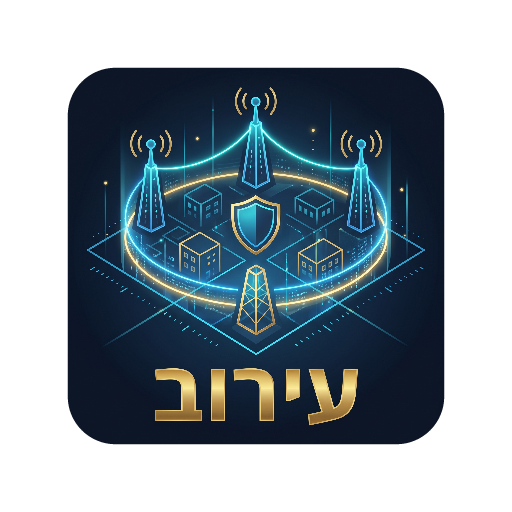
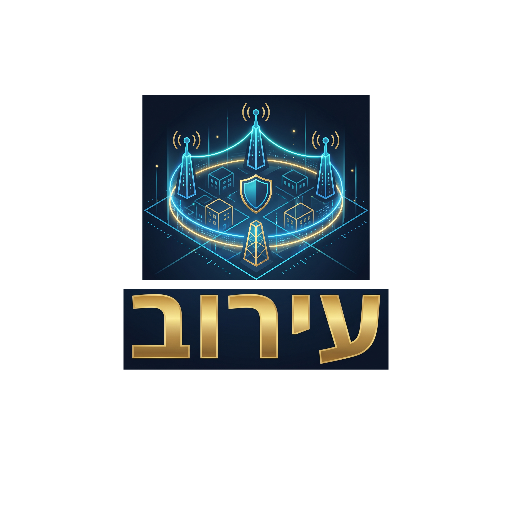
אפליקציה: מיקום המשתמש על המפה, אייקון קריא יותר ותיקון רשימת הערים
- נקודה כחולה במיקום הטלפון על מפת העיר, וכפתור "המיקום שלי" (expo-location,
  הרשאה בזמן שימוש בלבד, ורק כשלשונית העיר פתוחה)
- האייקון: המילה "עירוב" גדולה יותר ונכנסת כולה לעיגול של אנדרואיד
- רשימת הערים ביומן ובמסך העיר: שורה שנשברת לשורה הבאה במקום גלילה אופקית,
  שבכיוון ימין לשמאל באנדרואיד נפתחה מחוץ למסך

diff --git a/Eruv/app/src/components/mapHtml.generated.ts b/Eruv/app/src/components/mapHtml.generated.ts
@@ -1,2 +1,2 @@
 // GENERATED by scripts/build-map-html.js from assets/leaflet/map.html. Do not edit.
-export const MAP_HTML = "<!doctype html>\n<!--\n  Eruv ring map (R15, R17; KTD4). Loaded by src/components/EruvMap.tsx inside\n  react-native-webview. After editing, run `npm run build:map` to regenerate\n  src/components/mapHtml.generated.ts (a test fails while they differ).\n\n  Leaflet 1.9.4 comes from unpkg with Subresource Integrity; the base map needs the\n  network for OpenStreetMap tiles anyway. The WebView loads this page under the API\n  origin, so tile requests carry a Referer, and adds an app name to the User-Agent\n  (OpenStreetMap tile usage policy).\n\n  Bridge: the app calls window.eruvReceive(message) (also accepted as a\n  window/document \"message\" event). Message:\n    { \"type\": \"render\", \"poles\": [{number, lat, lon}], \"view\": \"break\" | \"ring\",\n      \"breakPoint\": null | { \"lat\", \"lon\", \"poles\": [bounding pole numbers] } }\n  The page posts {\"type\": \"ready\"} to the app when it can receive.\n-->\n<html>\n  <head>\n    <meta charset=\"utf-8\" />\n    <meta name=\"viewport\" content=\"width=device-width, initial-scale=1, maximum-scale=1, user-scalable=no\" />\n    <link\n      rel=\"stylesheet\"\n      href=\"https://unpkg.com/leaflet@1.9.4/dist/leaflet.css\"\n      integrity=\"sha256-p4NxAoJBhIIN+hmNHrzRCf9tD/miZyoHS5obTRR9BMY=\"\n      crossorigin=\"\"\n    />\n    <script\n      src=\"https://unpkg.com/leaflet@1.9.4/dist/leaflet.js\"\n      integrity=\"sha256-20nQCchB9co0qIjJZRGuk2/Z9VM+kNiyxNV1lvTlZBo=\"\n      crossorigin=\"\"\n    ></script>\n    <style>\n      /* Palette from the app icon (src/components/ui.tsx). */\n      html, body, #map { height: 100%; margin: 0; padding: 0; background: #0C182A; }\n      /* Night rendering of the standard OpenStreetMap tiles (same tiles, restyled). */\n      .leaflet-tile-pane {\n        filter: invert(1) hue-rotate(200deg) brightness(0.78) contrast(0.92) saturate(0.45);\n      }\n      .leaflet-container { background: #0C182A; font: 13px/1.3 -apple-system, Roboto, sans-serif; }\n      .leaflet-bar { border: 1px solid #2A4064 !important; border-radius: 10px !important; overflow: hidden; }\n      .leaflet-bar a, .leaflet-bar a:hover {\n        background: #13243C; color: #EDF3FA; border-bottom-color: #2A4064; width: 34px; height: 34px; line-height: 34px;\n      }\n      .leaflet-control-attribution { background: rgba(12, 24, 42, 0.75) !important; color: #93A6BF; }\n      .leaflet-control-attribution a { color: #3FD8FF; }\n      .pole-label {\n        font: 700 11px/1 -apple-system, Roboto, sans-serif;\n        color: #E6B850;\n        background: rgba(12, 24, 42, 0.88);\n        border: 1px solid rgba(230, 184, 80, 0.45);\n        border-radius: 6px;\n        padding: 3px 5px;\n        white-space: nowrap;\n      }\n      .pole-label.strong { color: #fff; background: #FF5D5D; border-color: #fff; font-size: 13px; }\n      .break-mark { background: none; border: none; }\n      .break-mark .pulse {\n        position: absolute; left: 0; top: 0; width: 44px; height: 44px; border-radius: 50%;\n        border: 3px solid #FF5D5D; box-sizing: border-box; animation: pulse 1.8s ease-out infinite;\n      }\n      .break-mark .core {\n        position: absolute; left: 13px; top: 13px; width: 18px; height: 18px; border-radius: 50%;\n        background: #FF5D5D; border: 3px solid #fff; box-sizing: border-box;\n      }\n      @keyframes pulse { from { transform: scale(0.45); opacity: 1; } to { transform: scale(1.35); opacity: 0; } }\n      @media (prefers-reduced-motion: reduce) { .break-mark .pulse { animation: none; opacity: 0.6; } }\n    </style>\n  </head>\n  <body>\n    <div id=\"map\"></div>\n    <script>\n      (function () {\n        var LABEL_MIN_PX = 24; // two labels closer than this would overlap\n        var BREAK_ZOOM = 17;\n        var FIBER = '#3FD8FF';\n        var GOLD = '#E6B850';\n        var NIGHT = '#0C182A';\n        var RED = '#FF5D5D';\n\n        function post(message) {\n          if (window.ReactNativeWebView) window.ReactNativeWebView.postMessage(JSON.stringify(message));\n        }\n\n        var map = L.map('map', { zoomControl: true });\n        L.tileLayer('https://tile.openstreetmap.org/{z}/{x}/{y}.png', {\n          maxZoom: 19,\n          attribution: '&copy; <a href=\"https://www.openstreetmap.org/copyright\">OpenStreetMap</a> contributors',\n        }).addTo(map);\n        map.setView([31.5, 34.9], 8);\n\n        var shapes = L.layerGroup().addTo(map);\n        var labels = L.layerGroup().addTo(map);\n        var current = null;\n\n        function highlighted(number) {\n          return !!(current && current.breakPoint && current.breakPoint.poles.indexOf(number) >= 0);\n        }\n\n        function label(pole, strong) {\n          return L.marker([pole.lat, pole.lon], {\n            interactive: false,\n            keyboard: false,\n            icon: L.divIcon({\n              className: 'pole-label' + (strong ? ' strong' : ''),\n              html: String(pole.number),\n              iconSize: null,\n              iconAnchor: [-6, 20],\n            }),\n          });\n        }\n\n        // Label as many poles as fit without overlapping at this zoom. The\n        // bounding poles of a break are always labelled.\n        function relabel() {\n          labels.clearLayers();\n          if (!current) return;\n          var placed = [];\n          var poles = current.poles;\n          var ordered = poles.filter(function (p) { return highlighted(p.number); })\n            .concat(poles.filter(function (p) { return !highlighted(p.number); }));\n          ordered.forEach(function (pole) {\n            var strong = highlighted(pole.number);\n            var point = map.latLngToLayerPoint([pole.lat, pole.lon]);\n            if (!strong) {\n              for (var i = 0; i < placed.length; i++) {\n                if (placed[i].distanceTo(point) < LABEL_MIN_PX) return;\n              }\n            }\n            placed.push(point);\n            label(pole, strong).addTo(labels);\n          });\n        }\n\n        function fit() {\n          var bp = current.breakPoint;\n          var points = current.poles.map(function (p) { return [p.lat, p.lon]; });\n          if (bp && current.view === 'break') map.setView([bp.lat, bp.lon], BREAK_ZOOM);\n          else if (points.length) map.fitBounds(L.latLngBounds(points), { padding: [24, 24] });\n        }\n\n        function render(message) {\n          current = message;\n          shapes.clearLayers();\n          var bp = message.breakPoint;\n          var points = message.poles.map(function (p) { return [p.lat, p.lon]; });\n          if (points.length >= 2) {\n            // Closed ring in pole-number order (the server sends poles ordered).\n            // The lit fiber: a soft glow under a bright line, as in the app icon.\n            L.polygon(points, { color: FIBER, weight: 12, opacity: 0.18, fill: false, interactive: false }).addTo(shapes);\n            L.polygon(points, { color: FIBER, weight: 3, fillColor: FIBER, fillOpacity: 0.06, interactive: false }).addTo(shapes);\n          }\n          if (bp && bp.poles.length === 2) {\n            var ends = message.poles.filter(function (p) { return highlighted(p.number); });\n            if (ends.length === 2) {\n              var span = ends.map(function (p) { return [p.lat, p.lon]; });\n              L.polyline(span, { color: RED, weight: 14, opacity: 0.3, interactive: false }).addTo(shapes);\n              L.polyline(span, { color: RED, weight: 5, interactive: false }).addTo(shapes);\n            }\n          }\n          message.poles.forEach(function (pole) {\n            var hot = highlighted(pole.number);\n            L.circleMarker([pole.lat, pole.lon], {\n              radius: hot ? 8 : 4.5,\n              color: hot ? '#ffffff' : NIGHT,\n              weight: 2,\n              fillColor: hot ? RED : GOLD,\n              fillOpacity: 1,\n              interactive: false,\n            }).addTo(shapes);\n          });\n          if (bp) {\n            L.marker([bp.lat, bp.lon], {\n              interactive: false,\n              keyboard: false,\n              zIndexOffset: 1000,\n              icon: L.divIcon({\n                className: 'break-mark',\n                iconSize: [44, 44],\n                iconAnchor: [22, 22],\n                html: '<div class=\"pulse\"></div><div class=\"core\"></div>',\n              }),\n            }).addTo(shapes);\n          }\n          fit();\n          relabel();\n        }\n\n        map.on('zoomend', relabel);\n\n        window.eruvReceive = function (message) {\n          if (typeof message === 'string') message = JSON.parse(message);\n          if (message && message.type === 'render') render(message);\n        };\n        function onMessage(event) {\n          try {\n            window.eruvReceive(event.data);\n          } catch (e) {}\n        }\n        window.addEventListener('message', onMessage);\n        document.addEventListener('message', onMessage);\n\n        post({ type: 'ready' });\n      })();\n    </script>\n  </body>\n</html>\n";
+export const MAP_HTML = "<!doctype html>\n<!--\n  Eruv ring map (R15, R17; KTD4). Loaded by src/components/EruvMap.tsx inside\n  react-native-webview. After editing, run `npm run build:map` to regenerate\n  src/components/mapHtml.generated.ts (a test fails while they differ).\n\n  Leaflet 1.9.4 comes from unpkg with Subresource Integrity; the base map needs the\n  network for OpenStreetMap tiles anyway. The WebView loads this page under the API\n  origin, so tile requests carry a Referer, and adds an app name to the User-Agent\n  (OpenStreetMap tile usage policy).\n\n  Bridge: the app calls window.eruvReceive(message) (also accepted as a\n  window/document \"message\" event). Message:\n    { \"type\": \"render\", \"poles\": [{number, lat, lon}], \"view\": \"break\" | \"ring\",\n      \"breakPoint\": null | { \"lat\", \"lon\", \"poles\": [bounding pole numbers] } }\n  Also { \"type\": \"me\", \"me\": null | { \"lat\", \"lon\", \"accuracy\" } } (the phone's\n  position, a blue dot) and { \"type\": \"center-me\" } (centre the map on it).\n  The page posts {\"type\": \"ready\"} to the app when it can receive.\n-->\n<html>\n  <head>\n    <meta charset=\"utf-8\" />\n    <meta name=\"viewport\" content=\"width=device-width, initial-scale=1, maximum-scale=1, user-scalable=no\" />\n    <link\n      rel=\"stylesheet\"\n      href=\"https://unpkg.com/leaflet@1.9.4/dist/leaflet.css\"\n      integrity=\"sha256-p4NxAoJBhIIN+hmNHrzRCf9tD/miZyoHS5obTRR9BMY=\"\n      crossorigin=\"\"\n    />\n    <script\n      src=\"https://unpkg.com/leaflet@1.9.4/dist/leaflet.js\"\n      integrity=\"sha256-20nQCchB9co0qIjJZRGuk2/Z9VM+kNiyxNV1lvTlZBo=\"\n      crossorigin=\"\"\n    ></script>\n    <style>\n      /* Palette from the app icon (src/components/ui.tsx). */\n      html, body, #map { height: 100%; margin: 0; padding: 0; background: #0C182A; }\n      /* Night rendering of the standard OpenStreetMap tiles (same tiles, restyled). */\n      .leaflet-tile-pane {\n        filter: invert(1) hue-rotate(200deg) brightness(0.78) contrast(0.92) saturate(0.45);\n      }\n      .leaflet-container { background: #0C182A; font: 13px/1.3 -apple-system, Roboto, sans-serif; }\n      .leaflet-bar { border: 1px solid #2A4064 !important; border-radius: 10px !important; overflow: hidden; }\n      .leaflet-bar a, .leaflet-bar a:hover {\n        background: #13243C; color: #EDF3FA; border-bottom-color: #2A4064; width: 34px; height: 34px; line-height: 34px;\n      }\n      .leaflet-control-attribution { background: rgba(12, 24, 42, 0.75) !important; color: #93A6BF; }\n      .leaflet-control-attribution a { color: #3FD8FF; }\n      .pole-label {\n        font: 700 11px/1 -apple-system, Roboto, sans-serif;\n        color: #E6B850;\n        background: rgba(12, 24, 42, 0.88);\n        border: 1px solid rgba(230, 184, 80, 0.45);\n        border-radius: 6px;\n        padding: 3px 5px;\n        white-space: nowrap;\n      }\n      .pole-label.strong { color: #fff; background: #FF5D5D; border-color: #fff; font-size: 13px; }\n      .break-mark { background: none; border: none; }\n      .break-mark .pulse {\n        position: absolute; left: 0; top: 0; width: 44px; height: 44px; border-radius: 50%;\n        border: 3px solid #FF5D5D; box-sizing: border-box; animation: pulse 1.8s ease-out infinite;\n      }\n      .break-mark .core {\n        position: absolute; left: 13px; top: 13px; width: 18px; height: 18px; border-radius: 50%;\n        background: #FF5D5D; border: 3px solid #fff; box-sizing: border-box;\n      }\n      .me-dot {\n        width: 18px; height: 18px; border-radius: 50%; box-sizing: border-box;\n        background: #4C8DFF; border: 3px solid #fff; box-shadow: 0 0 0 4px rgba(76, 141, 255, 0.35);\n      }\n      @keyframes pulse { from { transform: scale(0.45); opacity: 1; } to { transform: scale(1.35); opacity: 0; } }\n      @media (prefers-reduced-motion: reduce) { .break-mark .pulse { animation: none; opacity: 0.6; } }\n    </style>\n  </head>\n  <body>\n    <div id=\"map\"></div>\n    <script>\n      (function () {\n        var LABEL_MIN_PX = 24; // two labels closer than this would overlap\n        var BREAK_ZOOM = 17;\n        var FIBER = '#3FD8FF';\n        var GOLD = '#E6B850';\n        var NIGHT = '#0C182A';\n        var RED = '#FF5D5D';\n\n        function post(message) {\n          if (window.ReactNativeWebView) window.ReactNativeWebView.postMessage(JSON.stringify(message));\n        }\n\n        var map = L.map('map', { zoomControl: true });\n        L.tileLayer('https://tile.openstreetmap.org/{z}/{x}/{y}.png', {\n          maxZoom: 19,\n          attribution: '&copy; <a href=\"https://www.openstreetmap.org/copyright\">OpenStreetMap</a> contributors',\n        }).addTo(map);\n        map.setView([31.5, 34.9], 8);\n\n        var shapes = L.layerGroup().addTo(map);\n        var labels = L.layerGroup().addTo(map);\n        var current = null;\n\n        function highlighted(number) {\n          return !!(current && current.breakPoint && current.breakPoint.poles.indexOf(number) >= 0);\n        }\n\n        function label(pole, strong) {\n          return L.marker([pole.lat, pole.lon], {\n            interactive: false,\n            keyboard: false,\n            icon: L.divIcon({\n              className: 'pole-label' + (strong ? ' strong' : ''),\n              html: String(pole.number),\n              iconSize: null,\n              iconAnchor: [-6, 20],\n            }),\n          });\n        }\n\n        // Label as many poles as fit without overlapping at this zoom. The\n        // bounding poles of a break are always labelled.\n        function relabel() {\n          labels.clearLayers();\n          if (!current) return;\n          var placed = [];\n          var poles = current.poles;\n          var ordered = poles.filter(function (p) { return highlighted(p.number); })\n            .concat(poles.filter(function (p) { return !highlighted(p.number); }));\n          ordered.forEach(function (pole) {\n            var strong = highlighted(pole.number);\n            var point = map.latLngToLayerPoint([pole.lat, pole.lon]);\n            if (!strong) {\n              for (var i = 0; i < placed.length; i++) {\n                if (placed[i].distanceTo(point) < LABEL_MIN_PX) return;\n              }\n            }\n            placed.push(point);\n            label(pole, strong).addTo(labels);\n          });\n        }\n\n        function fit() {\n          var bp = current.breakPoint;\n          var points = current.poles.map(function (p) { return [p.lat, p.lon]; });\n          if (bp && current.view === 'break') map.setView([bp.lat, bp.lon], BREAK_ZOOM);\n          else if (points.length) map.fitBounds(L.latLngBounds(points), { padding: [24, 24] });\n        }\n\n        function render(message) {\n          current = message;\n          shapes.clearLayers();\n          var bp = message.breakPoint;\n          var points = message.poles.map(function (p) { return [p.lat, p.lon]; });\n          if (points.length >= 2) {\n            // Closed ring in pole-number order (the server sends poles ordered).\n            // The lit fiber: a soft glow under a bright line, as in the app icon.\n            L.polygon(points, { color: FIBER, weight: 12, opacity: 0.18, fill: false, interactive: false }).addTo(shapes);\n            L.polygon(points, { color: FIBER, weight: 3, fillColor: FIBER, fillOpacity: 0.06, interactive: false }).addTo(shapes);\n          }\n          if (bp && bp.poles.length === 2) {\n            var ends = message.poles.filter(function (p) { return highlighted(p.number); });\n            if (ends.length === 2) {\n              var span = ends.map(function (p) { return [p.lat, p.lon]; });\n              L.polyline(span, { color: RED, weight: 14, opacity: 0.3, interactive: false }).addTo(shapes);\n              L.polyline(span, { color: RED, weight: 5, interactive: false }).addTo(shapes);\n            }\n          }\n          message.poles.forEach(function (pole) {\n            var hot = highlighted(pole.number);\n            L.circleMarker([pole.lat, pole.lon], {\n              radius: hot ? 8 : 4.5,\n              color: hot ? '#ffffff' : NIGHT,\n              weight: 2,\n              fillColor: hot ? RED : GOLD,\n              fillOpacity: 1,\n              interactive: false,\n            }).addTo(shapes);\n          });\n          if (bp) {\n            L.marker([bp.lat, bp.lon], {\n              interactive: false,\n              keyboard: false,\n              zIndexOffset: 1000,\n              icon: L.divIcon({\n                className: 'break-mark',\n                iconSize: [44, 44],\n                iconAnchor: [22, 22],\n                html: '<div class=\"pulse\"></div><div class=\"core\"></div>',\n              }),\n            }).addTo(shapes);\n          }\n          fit();\n          relabel();\n        }\n\n        // The phone's own position: a blue dot over the ring, with its accuracy circle.\n        var meLayer = L.layerGroup().addTo(map);\n        var me = null;\n        function showMe(position) {\n          me = position;\n          meLayer.clearLayers();\n          if (!me) return;\n          if (me.accuracy) {\n            L.circle([me.lat, me.lon], {\n              radius: me.accuracy, color: '#4C8DFF', weight: 1, opacity: 0.6,\n              fillColor: '#4C8DFF', fillOpacity: 0.12, interactive: false,\n            }).addTo(meLayer);\n          }\n          L.marker([me.lat, me.lon], {\n            interactive: false, keyboard: false, zIndexOffset: 2000,\n            icon: L.divIcon({ className: '', html: '<div class=\"me-dot\"></div>', iconSize: [18, 18], iconAnchor: [9, 9] }),\n          }).addTo(meLayer);\n        }\n\n        map.on('zoomend', relabel);\n\n        window.eruvReceive = function (message) {\n          if (typeof message === 'string') message = JSON.parse(message);\n          if (!message) return;\n          if (message.type === 'render') render(message);\n          else if (message.type === 'me') showMe(message.me);\n          else if (message.type === 'center-me' && me) map.setView([me.lat, me.lon], Math.max(map.getZoom(), 17));\n        };\n        function onMessage(event) {\n          try {\n            window.eruvReceive(event.data);\n          } catch (e) {}\n        }\n        window.addEventListener('message', onMessage);\n        document.addEventListener('message', onMessage);\n\n        post({ type: 'ready' });\n      })();\n    </script>\n  </body>\n</html>\n";

diff --git a/Eruv/app/src/components/EruvMap.tsx b/Eruv/app/src/components/EruvMap.tsx
@@ -2,12 +2,14 @@
 // message bridge. Reusable for any pole list (e.g. an admin pole-import preview):
 // pass `breakPoint={null}` to just draw the ring.
 import { useCallback, useEffect, useMemo, useRef, useState } from 'react';
+import { Ionicons } from '@expo/vector-icons';
 import { Linking, Pressable, StyleSheet, Text, View } from 'react-native';
 import { WebView, type WebViewMessageEvent } from 'react-native-webview';
 
 import type { Pole } from '../api/client';
 import { apiOrigin } from '../config';
 import { he } from '../i18n/he';
+import type { MyLocation } from '../lib/useMyLocation';
 import { MAP_HTML } from './mapHtml.generated';
 import { colors } from './ui';
 
@@ -26,6 +28,8 @@ export type MapView = 'break' | 'ring';
 export interface EruvMapProps {
   poles: Pole[];
   breakPoint?: MapBreakPoint | null;
+  /** The phone's own position, drawn as a blue dot (City tab only). */
+  me?: MyLocation | null;
   testID?: string;
 }
 
@@ -34,7 +38,12 @@ export function mapMessage(poles: Pole[], breakPoint: MapBreakPoint | null, view
   return JSON.stringify({ type: 'render', poles, breakPoint, view: breakPoint ? view : 'ring' });
 }
 
-export function EruvMap({ poles, breakPoint = null, testID = 'eruv-map' }: EruvMapProps) {
+/** The bridge message with the phone's position (a separate message, so `render` stays unchanged). */
+export function meMessage(me: MyLocation | null): string {
+  return JSON.stringify({ type: 'me', me });
+}
+
+export function EruvMap({ poles, breakPoint = null, me = null, testID = 'eruv-map' }: EruvMapProps) {
   const webView = useRef<WebView>(null);
   // Bumped on every "ready" from the page, so a reloaded page gets the data again.
   const [readyCount, setReadyCount] = useState(0);
@@ -50,6 +59,16 @@ export function EruvMap({ poles, breakPoint = null, testID = 'eruv-map' }: EruvM
     if (readyCount === 0) return;
     webView.current?.injectJavaScript(`window.eruvReceive(${JSON.stringify(message)}); true;`);
   }, [message, readyCount]);
+
+  const send = useCallback((json: string) => {
+    webView.current?.injectJavaScript(`window.eruvReceive(${JSON.stringify(json)}); true;`);
+  }, []);
+
+  const meJson = useMemo(() => meMessage(me), [me]);
+  useEffect(() => {
+    if (readyCount === 0 || !me) return;
+    send(meJson);
+  }, [meJson, me, readyCount, send]);
 
   const onMessage = useCallback((event: WebViewMessageEvent) => {
     try {
@@ -78,6 +97,17 @@ export function EruvMap({ poles, breakPoint = null, testID = 'eruv-map' }: EruvM
         // The page's own background, so no white flash before the map paints.
         containerStyle={styles.webView}
       />
+      {me ? (
+        <Pressable
+          testID="map-center-me"
+          accessibilityRole="button"
+          accessibilityLabel={he.city.myLocation}
+          onPress={() => send(JSON.stringify({ type: 'center-me' }))}
+          style={({ pressed }) => [styles.meButton, pressed && { opacity: 0.7 }]}
+        >
+          <Ionicons name="locate" size={24} color={colors.primary} />
+        </Pressable>
+      ) : null}
       {breakPoint ? (
         <Pressable
           testID="map-toggle-view"
@@ -112,4 +142,22 @@ const styles = StyleSheet.create({
     shadowOffset: { width: 0, height: 3 },
   },
   toggleText: { color: colors.primary, fontSize: 15, fontWeight: '700' },
+  meButton: {
+    position: 'absolute',
+    top: 12,
+    end: 12,
+    width: 46,
+    height: 46,
+    borderRadius: 23,
+    alignItems: 'center',
+    justifyContent: 'center',
+    backgroundColor: colors.surface,
+    borderWidth: 1,
+    borderColor: colors.border,
+    elevation: 4,
+    shadowColor: '#000',
+    shadowOpacity: 0.4,
+    shadowRadius: 6,
+    shadowOffset: { width: 0, height: 2 },
+  },
 });

diff --git a/Eruv/app/assets/leaflet/map.html b/Eruv/app/assets/leaflet/map.html
@@ -13,6 +13,8 @@
   window/document "message" event). Message:
     { "type": "render", "poles": [{number, lat, lon}], "view": "break" | "ring",
       "breakPoint": null | { "lat", "lon", "poles": [bounding pole numbers] } }
+  Also { "type": "me", "me": null | { "lat", "lon", "accuracy" } } (the phone's
+  position, a blue dot) and { "type": "center-me" } (centre the map on it).
   The page posts {"type": "ready"} to the app when it can receive.
 -->
 <html>
@@ -62,6 +64,10 @@
       .break-mark .core {
         position: absolute; left: 13px; top: 13px; width: 18px; height: 18px; border-radius: 50%;
         background: #FF5D5D; border: 3px solid #fff; box-sizing: border-box;
+      }
+      .me-dot {
+        width: 18px; height: 18px; border-radius: 50%; box-sizing: border-box;
+        background: #4C8DFF; border: 3px solid #fff; box-shadow: 0 0 0 4px rgba(76, 141, 255, 0.35);
       }
       @keyframes pulse { from { transform: scale(0.45); opacity: 1; } to { transform: scale(1.35); opacity: 0; } }
       @media (prefers-reduced-motion: reduce) { .break-mark .pulse { animation: none; opacity: 0.6; } }
@@ -186,11 +192,33 @@
           relabel();
         }
 
+        // The phone's own position: a blue dot over the ring, with its accuracy circle.
+        var meLayer = L.layerGroup().addTo(map);
+        var me = null;
+        function showMe(position) {
+          me = position;
+          meLayer.clearLayers();
+          if (!me) return;
+          if (me.accuracy) {
+            L.circle([me.lat, me.lon], {
+              radius: me.accuracy, color: '#4C8DFF', weight: 1, opacity: 0.6,
+              fillColor: '#4C8DFF', fillOpacity: 0.12, interactive: false,
+            }).addTo(meLayer);
+          }
+          L.marker([me.lat, me.lon], {
+            interactive: false, keyboard: false, zIndexOffset: 2000,
+            icon: L.divIcon({ className: '', html: '<div class="me-dot"></div>', iconSize: [18, 18], iconAnchor: [9, 9] }),
+          }).addTo(meLayer);
+        }
+
         map.on('zoomend', relabel);
 
         window.eruvReceive = function (message) {
           if (typeof message === 'string') message = JSON.parse(message);
-          if (message && message.type === 'render') render(message);
+          if (!message) return;
+          if (message.type === 'render') render(message);
+          else if (message.type === 'me') showMe(message.me);
+          else if (message.type === 'center-me' && me) map.setView([me.lat, me.lon], Math.max(map.getZoom(), 17));
         };
         function onMessage(event) {
           try {

diff --git a/Eruv/app/src/screens/city/CityScreen.tsx b/Eruv/app/src/screens/city/CityScreen.tsx
@@ -1,7 +1,8 @@
 // City tab (R15–R17): status banner over the OpenStreetMap ring, live over WebSocket.
 // The shell pieces (notification warning strip, admin city switcher) stay on top.
 import { Ionicons } from '@expo/vector-icons';
-import { useMemo } from 'react';
+import { NavigationContext } from '@react-navigation/native';
+import { useContext, useEffect, useMemo, useState } from 'react';
 import { Pressable, StyleSheet, Text, View } from 'react-native';
 
 import type { CityStatus, Pole } from '../../api/client';
@@ -11,6 +12,7 @@ import { NotificationWarningStrip } from '../../components/NotificationWarningSt
 import { StatusBanner } from '../../components/StatusBanner';
 import { colors, fonts } from '../../components/ui';
 import { he } from '../../i18n/he';
+import { useMyLocation } from '../../lib/useMyLocation';
 import { useAuthStore } from '../../state/auth';
 import { useCityStatus } from '../../state/cityStatus';
 
@@ -25,11 +27,29 @@ export function mapBreakPoint(status: CityStatus | null): MapBreakPoint | null {
   return { lat: mapping.lat, lon: mapping.lon, poles };
 }
 
+/** True while this screen is the visible tab; true outside a navigator (tests). */
+function useTabFocused(): boolean {
+  const navigation = useContext(NavigationContext);
+  const [focused, setFocused] = useState(() => navigation?.isFocused() ?? true);
+  useEffect(() => {
+    if (!navigation) return;
+    const offFocus = navigation.addListener('focus', () => setFocused(true));
+    const offBlur = navigation.addListener('blur', () => setFocused(false));
+    return () => {
+      offFocus();
+      offBlur();
+    };
+  }, [navigation]);
+  return focused;
+}
+
 export function CityScreen() {
   const cityId = useAuthStore((s) => s.activeCityId);
   const { view, now, refresh } = useCityStatus(cityId);
   const status = view.live.status;
   const breakPoint = useMemo(() => mapBreakPoint(status), [status]);
+  // The phone's position on the map, only while this tab is on screen.
+  const { location: me } = useMyLocation(useTabFocused());
 
   let body;
   if (cityId === null) {
@@ -55,7 +75,7 @@ export function CityScreen() {
           </Pressable>
         </View>
         <StatusBanner status={status} now={now} serverUnreachable={view.serverUnreachable} />
-        <EruvMap poles={view.poles ?? NO_POLES} breakPoint={breakPoint} />
+        <EruvMap poles={view.poles ?? NO_POLES} breakPoint={breakPoint} me={me} />
       </>
     );
   } else if (view.loading) {

diff --git a/Eruv/app/src/lib/useMyLocation.ts b/Eruv/app/src/lib/useMyLocation.ts
@@ -1,0 +1,51 @@
+// The phone's own position for the City map: where the maintainer is, next to
+// the eruv ring and a break. Foreground only, and only while the caller is
+// active (the City tab is focused), so it costs no battery in the background.
+import * as Location from 'expo-location';
+import { useEffect, useState } from 'react';
+
+export interface MyLocation {
+  lat: number;
+  lon: number;
+  /** Radius of the 68% confidence circle, metres. */
+  accuracy: number | null;
+}
+
+export type LocationPermission = 'unknown' | 'granted' | 'denied';
+
+export function useMyLocation(active: boolean): { location: MyLocation | null; permission: LocationPermission } {
+  const [location, setLocation] = useState<MyLocation | null>(null);
+  const [permission, setPermission] = useState<LocationPermission>('unknown');
+
+  useEffect(() => {
+    if (!active) return;
+    let cancelled = false;
+    let sub: Location.LocationSubscription | null = null;
+    (async () => {
+      try {
+        const { status } = await Location.requestForegroundPermissionsAsync();
+        if (cancelled) return;
+        if (status !== 'granted') {
+          setPermission('denied');
+          return;
+        }
+        setPermission('granted');
+        sub = await Location.watchPositionAsync(
+          { accuracy: Location.Accuracy.High, distanceInterval: 5, timeInterval: 5000 },
+          (pos) =>
+            setLocation({ lat: pos.coords.latitude, lon: pos.coords.longitude, accuracy: pos.coords.accuracy ?? null }),
+        );
+        if (cancelled) sub.remove();
+      } catch {
+        // Location services off or unavailable: the map simply shows no dot.
+        if (!cancelled) setPermission('denied');
+      }
+    })();
+    return () => {
+      cancelled = true;
+      sub?.remove();
+    };
+  }, [active]);
+
+  return { location, permission };
+}

diff --git a/Eruv/app/src/components/CitySwitcher.tsx b/Eruv/app/src/components/CitySwitcher.tsx
@@ -1,6 +1,6 @@
 // Admin-only city switcher at the top of the City and Logs tabs. Renders nothing for maintainers.
 import { useEffect } from 'react';
-import { ScrollView, StyleSheet } from 'react-native';
+import { StyleSheet, View } from 'react-native';
 
 import { isAdmin, useAuthStore } from '../state/auth';
 import { useCities } from './useCities';
@@ -23,7 +23,9 @@ function AdminCitySwitcher() {
   }, [activeCityId, cities, setActiveCity]);
 
   return (
-    <ScrollView horizontal testID="city-switcher" contentContainerStyle={styles.row} style={styles.bar}>
+    // A wrapping row, not a horizontal ScrollView: in RTL, Android opens a horizontal
+    // ScrollView scrolled past its content, so the chips were off screen.
+    <View testID="city-switcher" style={styles.bar}>
       {(cities ?? []).map((city) => {
         const active = city.id === activeCityId;
         return (
@@ -36,11 +38,17 @@ function AdminCitySwitcher() {
           />
         );
       })}
-    </ScrollView>
+    </View>
   );
 }
 
 const styles = StyleSheet.create({
-  bar: { flexGrow: 0, borderBottomWidth: 1, borderBottomColor: colors.border },
-  row: { padding: 8, gap: 8 },
+  bar: {
+    flexDirection: 'row',
+    flexWrap: 'wrap',
+    gap: 8,
+    padding: 8,
+    borderBottomWidth: 1,
+    borderBottomColor: colors.border,
+  },
 });

diff --git a/Eruv/app/app.config.ts b/Eruv/app/app.config.ts
@@ -62,6 +62,15 @@ const config: ExpoConfig = {
     'expo-system-ui',
     'expo-font',
     'expo-notifications',
+    // Foreground location only: the maintainer's own dot on the City map.
+    [
+      'expo-location',
+      {
+        locationWhenInUsePermission: 'המיקום שלך מוצג על מפת העירוב, כדי שתראה איפה אתה ביחס לקרע.',
+        isAndroidBackgroundLocationEnabled: false,
+        isIosBackgroundLocationEnabled: false,
+      },
+    ],
     // Hebrew UI: native right-to-left layout from the first launch (R18).
     ['expo-localization', { supportsRTL: true, forcesRTL: true }],
   ],

diff --git a/Eruv/app/src/i18n/he.ts b/Eruv/app/src/i18n/he.ts
@@ -88,6 +88,7 @@ export const he = {
     secondBreakHelp: 'ה-OTDR לא יכול לראות קרע נוסף אחרי הקרע הראשון עד שהוא יתוקן',
     showRing: 'הצג את כל הטבעת',
     showBreak: 'חזרה למיקום הקרע',
+    myLocation: 'המיקום שלי',
     unavailable: 'אין גישה לעיר זו',
   },
   relative: {

diff --git a/Eruv/app/__mocks__/expo-location.ts b/Eruv/app/__mocks__/expo-location.ts
@@ -1,0 +1,4 @@
+// expo-location for tests: permission denied, so screens render without a position.
+export const Accuracy = { High: 4, Balanced: 3 };
+export const requestForegroundPermissionsAsync = jest.fn(async () => ({ status: 'denied' }));
+export const watchPositionAsync = jest.fn(async () => ({ remove: jest.fn() }));
